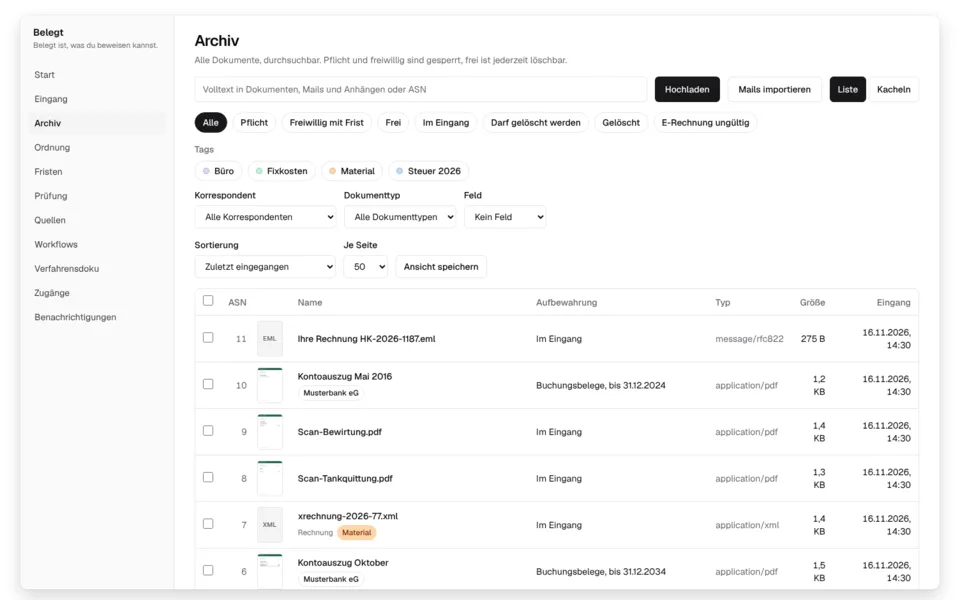
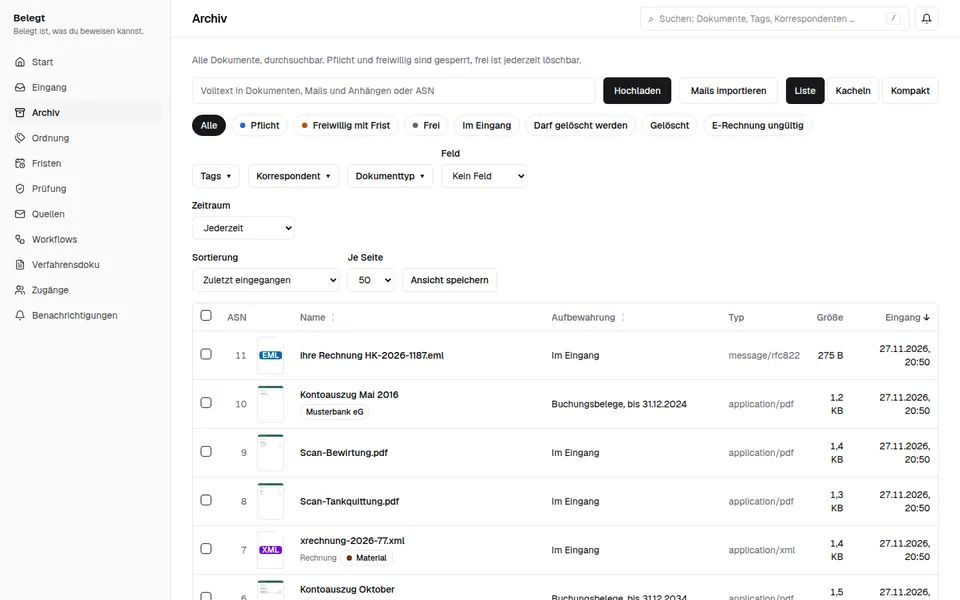
Screenshots von Haben und Belegt ohne weißen Rahmen
Die Bilder kamen aus den gerahmten Doku-Screenshots. Deren transparenter Rand wurde beim Umwandeln weiß
und stand als Rahmen in den Karten. Neu erzeugt aus den Aufnahmen ohne Rahmen (Speicherstadt/haben#2029,
Speicherstadt/belegt#66); die README nennt die richtige Quelle.

diff --git a/README.md b/README.md
@@ -10,7 +10,9 @@ as `/stellwerk/`, `/fixpunkt/` and `/steuerzentrale/`.
 - `index.html`, `en/index.html`: the two languages; change both together.
 - `assets/style.css`: colours as variables at the top, light and dark mode.
 - `assets/img/`: project icons and screenshots (960×600 WebP, `-light` and `-dark`), taken from
-  the projects' own repositories.
+  the projects' own repositories. Use their unframed screenshots (Haben `docs/ohne-rahmen/`, Belegt
+  `docs/assets/ohne-rahmen/`): the framed ones in `docs/` have a transparent margin for GitHub, which
+  turns into a white frame here.
 - `assets/hero.js`, `assets/sky.js`: the animated night in the hero (windows and reflections; the
   WebGL sky). `assets/vendor/` holds three.js r170 (MIT), served from this site as well.
 - `assets/fonts/`: Inter and Fraunces, SIL Open Font License 1.1, served from this site so no
